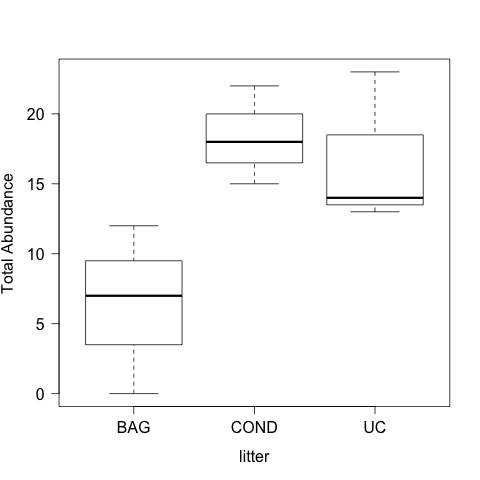
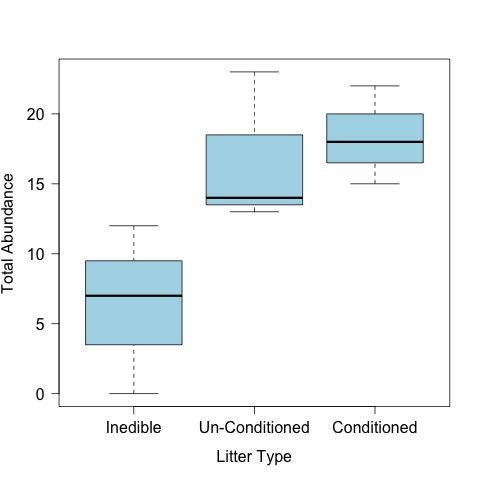
CN analysis

diff --git a/lab_notebook/analysis/litter_CN_analysis.md b/lab_notebook/analysis/litter_CN_analysis.md
@@ -1,0 +1,114 @@
+# Analysis of the litter CN data from the litter habitat experiment 
+## Metadata
+
+### File created 
+
+* 24 May 2017
+
+### Modified
+
+## Description
+
+These analyses are to evaluate the differences in nutritional quality of the different litter types in the litter habitat experiment
+
+The description of the experiment can be found in [https://github.com/KennyPeanuts/litter_habitat_subsidy/blob/master/lab_notebook/habitat_setup_sp2017.md](https://github.com/KennyPeanuts/litter_habitat_subsidy/blob/master/lab_notebook/habitat_setup_sp2017.md)
+
+## Import Data
+   
+    litter <- read.table("./data/litter_CN.csv", header = T, sep = ",")
+    
+### Create Factors
+
+    type <- c(rep("COND", 3), rep("UC", 3), rep("BAG", 3))
+    rep <- rep(c("A", "B", "C"), 3)
+
+### Add Factors to data.frame
+
+    litter <- data.frame(type, rep, litter)
+
+### Create variable of factors in correct order for plots
+
+    x <- factor(litter$type, levels = c("BAG", "UC", "COND"))
+
+## Analysis
+
+### Differences in Quality
+
+#### CN
+
+    par(las = 1)
+    plot(CN ~ x, data = litter, ylim = c(0, 600), ylab = "C:N", xlab = "Litter Type", col = "orange", axes = F)
+    axis(2)
+    axis(1, c("Inedible", "Un-Conditioned", "Conditioned"), at = c(1, 2, 3))
+    box()
+    dev.copy(jpeg, "./output/plots/CN_by_litter.jpg")
+    dev.off()
+
+![CN for each litter type](../output/plots/CN_by_liiter.jpg)
+
+#### Percent N
+
+    par(las = 1)
+    plot(percN ~ x, data = litter, ylim = c(0, 2), ylab = "Percent Nitrogen", xlab = "Litter Type", col = "lightgoldenrod3", axes = F)
+    axis(2)
+    axis(1, c("Inedible", "Un-Conditioned", "Conditioned"), at = c(1, 2, 3))
+    box()
+    dev.copy(jpeg, "./output/plots/percN_by_litter.jpg")
+    dev.off()
+
+![CN for each litter type](../output/plots/percN_by_liiter.jpg)
+
+    percN.aov <- aov(percN ~ type, data = litter)
+    summary(percN.aov)
+    TukeyHSD(percN.aov)
+
+~~~~
+            Df Sum Sq Mean Sq F value   Pr(>F)    
+type         2 2.0807   1.040   28.87 0.000834 ***
+Residuals    6 0.2162   0.036                     
+
+
+  Tukey multiple comparisons of means
+    95% family-wise confidence level
+
+Fit: aov(formula = percN ~ type, data = litter)
+
+$type
+              diff        lwr      upr     p adj
+COND-BAG 0.9366667  0.4611116 1.412222 0.0022511
+UC-BAG   1.0866667  0.6111116 1.562222 0.0010243
+UC-COND  0.1500000 -0.3255550 0.625555 0.6215779
+~~~~ 
+ 
+#### Percent C
+
+    par(las = 1)
+    plot(percC ~ x, data = litter, ylim = c(40, 50), ylab = "Percent Carbon", xlab = "Litter Type", col = "mediumturquoise", axes = F)
+    axis(2)
+    axis(1, c("Inedible", "Un-Conditioned", "Conditioned"), at = c(1, 2, 3))
+    box()
+    dev.copy(jpeg, "./output/plots/percC_by_litter.jpg")
+    dev.off()
+
+![CN for each litter type](../output/plots/percC_by_liiter.jpg)
+
+    percC.aov <- aov(percC ~ type, data = litter)
+    summary(percC.aov)
+    TukeyHSD(percC.aov)
+
+~~~~
+           Df Sum Sq Mean Sq F value   Pr(>F)    
+type         2  42.81  21.405   254.2 1.59e-06 ***
+Residuals    6   0.51   0.084                     
+
+> TukeyHSD(percC.aov)
+  Tukey multiple comparisons of means
+    95% family-wise confidence level
+
+Fit: aov(formula = percC ~ type, data = litter)
+
+$type
+             diff      lwr      upr     p adj
+COND-BAG 3.186667 2.459717 3.913617 0.0000257
+UC-BAG   5.306667 4.579717 6.033617 0.0000013
+UC-COND  2.120000 1.393050 2.846950 0.0002674

diff --git a/lab_notebook/analysis/bug_analysis.md b/lab_notebook/analysis/bug_analysis.md
@@ -64,9 +64,14 @@ litter     2 253.56 126.778  4.8143 0.05658 .
 Residuals  6 158.00  26.333      
 
 ~~~~
+  
+    x <- factor(bugs.wormless$litter, levels = c("BAG", "UC", "COND")) # this reorders the litter types by palitability on the x-axis
 
     par(las = 1)
-    plot(sum ~ litter, data = bugs.wormless, ylab = "Total Abundance")
+    plot(sum ~ x, data = bugs.wormless, ylab = "Total Abundance", xlab = "Litter Type", col = "lightblue", axes = F)
+    axis(2)
+    axis(1, c("Inedible", "Un-Conditioned", "Conditioned"), at = c(1, 2, 3))
+    box()
     dev.copy(jpeg, "./output/plots/total_abun_by_litter.jpg")
     dev.off()
 
